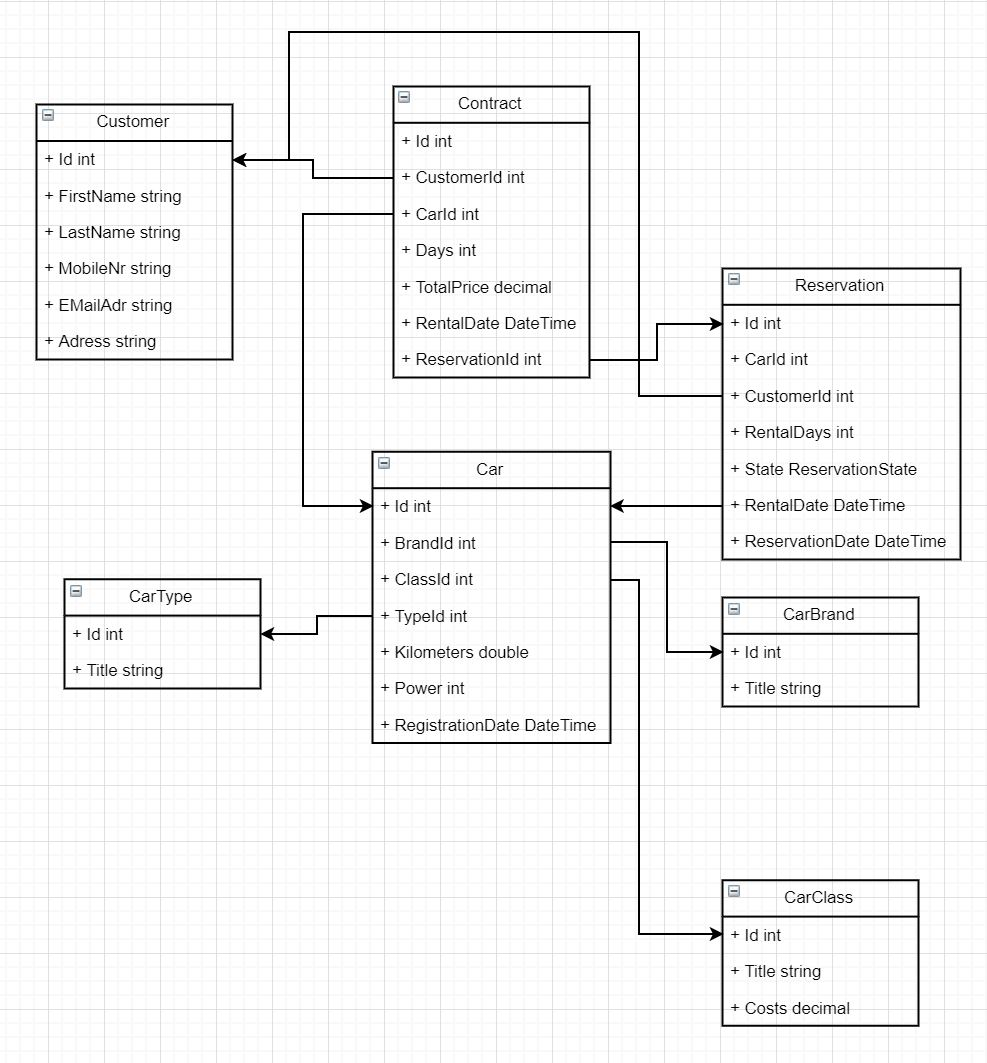
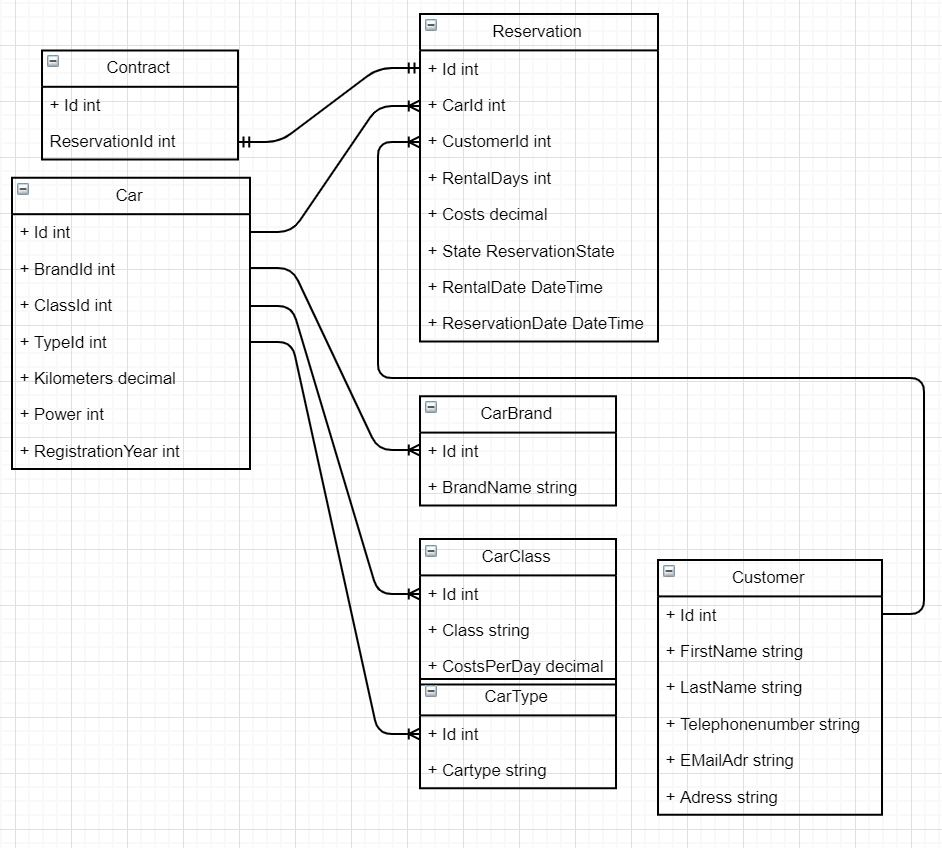
Tests und doku

diff --git a/docs/Car-Rent-Doc/site/index.html b/docs/Car-Rent-Doc/site/index.html
@@ -53,15 +53,27 @@
                 <div class="col-md-3"><div class="bs-sidebar hidden-print affix well" role="complementary">
     <ul class="nav bs-sidenav">
         <li class="main active"><a href="#car-rent-api-documentation">Car Rent Api Documentation</a></li>
+        <li class="main "><a href="#aufgabenstellung">Aufgabenstellung</a></li>
+            <li><a href="#zielsetzung">Zielsetzung</a></li>
         <li class="main "><a href="#context-diagram">Context Diagram</a></li>
         <li class="main "><a href="#container-diagram">Container Diagram</a></li>
         <li class="main "><a href="#component-diagram">Component Diagram</a></li>
+        <li class="main "><a href="#domain-diagram">Domain Diagram</a></li>
+        <li class="main "><a href="#use-cases">Use Cases</a></li>
+        <li class="main "><a href="#restapi">RestApi</a></li>
+            <li><a href="#daten-ubergabewerte">Daten übergabewerte</a></li>
+            <li><a href="#datenubergabe">Datenübergabe</a></li>
+            <li><a href="#datenbank">Datenbank</a></li>
+        <li class="main "><a href="#continuous-integration">Continuous Integration</a></li>
     </ul>
 </div></div>
                 <div class="col-md-9" role="main">
 
 <h1 id="car-rent-api-documentation">Car Rent Api Documentation</h1>
 <p><img alt="BigPicture" src="images/BigPicture.JPG" /></p>
+<h1 id="aufgabenstellung">Aufgabenstellung</h1>
+<h2 id="zielsetzung">Zielsetzung</h2>
+<p>Es soll ein Autovermietungssystem "Car Rent" erstellt werden. Das System soll aus einem Serverteil, welcher über eine RestApi erreicht werden kann, und aus einem optionalen Webclient bestehen.</p>
 <h1 id="context-diagram">Context Diagram</h1>
 <p><img alt="ContextDiagram" src="images/ContextDiagram.JPG" /></p>
 <p>Der Kunde kann bei einer Reservation ein Auto aus einer bestimmten Klasse wählen. Bei der Reservation muss er die Mietdauer und das Anfangsdatum angeben. 
@@ -71,7 +83,27 @@ Der Sachbearbeiter kann den Fuhrpark verwalten. Zudem kann er die Kunden im Syst
 <p>Die Webaplikation macht API calls zur RestApi über welche Datenbankoperationen ausgeführt werden. Je nach Aufruf werden Daten geschrieben oder gelesen.</p>
 <h1 id="component-diagram">Component Diagram</h1>
 <p><img alt="ContextDiagram" src="images/ComponentDiagram.JPG" /></p>
-<p>Der Kunde kann ein Auto auswählen und eine Reservation tätigen. Bei Abholung des Wagens muss der Kunde einen Vertrag unterschreiben. Die Reservation beinhaltet das ausgewählte Fahrzeug, das Reservationsdatum, die Mietdauer, die Gesamtkosten und der Mietzeitpunkt. </p></div>
+<p>Der Kunde kann ein Auto auswählen und eine Reservation tätigen. Bei Abholung des Wagens muss der Kunde einen Vertrag unterschreiben. Die Reservation beinhaltet das ausgewählte Fahrzeug, das Reservationsdatum, die Mietdauer, die Gesamtkosten und der Mietzeitpunkt und den Reservationsstatus. Bei der Vertragserstellung ändert der Reservationsstatus zu Contracted. </p>
+<h1 id="domain-diagram">Domain Diagram</h1>
+<p><img alt="DomainDiagram" src="images/DomainModel.JPG" /></p>
+<h1 id="use-cases">Use Cases</h1>
+<p>UC1: Der Sachbearbeiter kann Kunden erfassen, löschen bearbeiten und mittels Kundennummer oder Name suchen.</p>
+<p>UC2: Der Sachbearbeiter kann Autos verwalten und suchen.</p>
+<p>UC3: Jedes Auto besitzt eine Angabe bezüglich Klasse, Typ und Marke. Jedes Auto kann zudem eindeutig Identifiziert werden.</p>
+<p>UC4: Die Klasse bestimmt den Tagespreis.</p>
+<p>UC5: Bei der Reservation kann ein Auto aus einer bestimmten Klasse gewählt werden. Durch die Angabe der Reservationstage wird der Gesamtpreis berechnet. Der Reservationsstatus wird für den ausgewählten Reservationszeitraum auf reserviert gesetzt.</p>
+<p>UC6: Beim erstellen des Mietvertrags, wird der Reservationsstatus auf Contracted gewechselt.</p>
+<h1 id="restapi">RestApi</h1>
+<h2 id="daten-ubergabewerte">Daten übergabewerte</h2>
+<p>Die Daten werden gemäss dem Domaindiagramm als json-Datei von der RestApi zurückgegeben. Bei Fremdschlüssel werden die Id's der als fremdschlüsselübergebenen Tabelle zurückgegeben.</p>
+<h3 id="ausnahme">Ausnahme</h3>
+<p>Die Rückgabe des Contracts unterscheidet sich von den anderen. Hier werden die gejointen Werte zurück gegeben und nicht nur die Fremdschlüssel Id.</p>
+<h2 id="datenubergabe">Datenübergabe</h2>
+<p>Die Daten werden von der RestApi in Form von json-Dateien übernommen. Um die Tabellen zu verknüpfen müssen den entsprechenden Fremdschlüsselfelder die jeweiligen Id's der Daten aus der jeweiligen Tabelle übergeben werden.</p>
+<h2 id="datenbank">Datenbank</h2>
+<p>Die Datenbank wurde in Form eines Entity Frameworks umgesetzt. Das Entity Framework läuft als InMemoryDatenbank, wodurch es die Daten nur während die RestApi läuft hält. Dadurch werden beim Start der Api mehrere Beispieldaten übergeben.</p>
+<h1 id="continuous-integration">Continuous Integration</h1>
+<p>Die Continuous Integration wurde mittels einer Azure Pipeline umgesetzt. Diese Pipeline startet bei jedem Push in den Master-Branch von Git einen automatischen Build und führt die Tests durch.</p></div>
         </div>
 
         <footer class="col-md-12">
@@ -154,5 +186,5 @@ Der Sachbearbeiter kann den Fuhrpark verwalten. Zudem kann er die Kunden im Syst
 
 <!--
 MkDocs version : 1.0.4
-Build Date UTC : 2020-02-03 16:40:27
+Build Date UTC : 2020-02-18 16:22:52
 -->

diff --git a/CarRentApi/CarRentApi.test/CarClassTest.cs b/CarRentApi/CarRentApi.test/CarClassTest.cs
@@ -25,14 +25,15 @@ namespace CarRentApi.test
             ExampleData.ExampleData.InitTestData(carrent);
             var carclasscontroller = new CarClassesController(carrent);
             var carclasslist = carclasscontroller.GetCarClasses();
+            var carlist2 = carrent.CarClasses.ToList();
 
-            Assert.IsTrue(carclasslist.Count == 3);
+            Assert.IsTrue(carclasslist.Count == carlist2.Count);
         }
 
         [Test]
         public void Post_CarClass_IsTrue()
         {
-            var carclass = new CarClass(){Class = "Ichwerdegeloescht",CostsPerDay = 1000m};
+            var carclass = new CarClass() { Class = "Ichwerdegeloescht", CostsPerDay = 1000m };
             DbContextOptionsBuilder<CarRentDBContext> builder = new DbContextOptionsBuilder<CarRentDBContext>();
             builder.UseInMemoryDatabase("CarRent");
             DbContextOptions<CarRentDBContext> options = builder.Options;
@@ -46,7 +47,7 @@ namespace CarRentApi.test
                 var carclasslist = carclasscontroller.GetCarClasses();
                 foreach (var cclass in carclasslist)
                 {
-                    if(!cclass.Class.Equals(carclass.Class))
+                    if (!cclass.Class.Equals(carclass.Class))
                         continue;
                     index = cclass.Id;
                 }
@@ -57,16 +58,72 @@ namespace CarRentApi.test
             carclasscontroller.PostCarClass(carclass);
 
             var bOk = false;
+            var ind = 0;
             foreach (var carsclasses in carclasscontroller.GetCarClasses())
             {
                 if (carsclasses.Class.Equals(carclass.Class) && carsclasses.CostsPerDay == carclass.CostsPerDay)
                 {
                     bOk = true;
+                    ind = carsclasses.Id;
                     break;
                 }
             }
+
+            carclasscontroller.DeleteCarClass(ind);
             Assert.IsTrue(bOk);
         }
 
+        [Test]
+        public void Delete_CarClass_IsTrue()
+        {
+            var carclass = new CarClass() { Class = "Ichwerdegeloeschtzwei", CostsPerDay = 1000m };
+            DbContextOptionsBuilder<CarRentDBContext> builder = new DbContextOptionsBuilder<CarRentDBContext>();
+            builder.UseInMemoryDatabase("CarRent");
+            DbContextOptions<CarRentDBContext> options = builder.Options;
+            CarRentDBContext carrent = new CarRentDBContext(options);
+            ExampleData.ExampleData.InitTestData(carrent);
+            var carclasscontroller = new CarClassesController(carrent);
+            carclasscontroller.PostCarClass(carclass);
+            bool isAdded = false;
+            int id = 0;
+            foreach (var cclass in carclasscontroller.GetCarClasses())
+            {
+                if (cclass.Class.Equals(carclass.Class) && cclass.CostsPerDay == carclass.CostsPerDay)
+                {
+                    id = cclass.Id;
+                    isAdded = true;
+                    break;
+                }
+            }
+
+            carclasscontroller.DeleteCarClass(id);
+            Assert.IsTrue(isAdded && carclasscontroller.GetCarClass(id) == null);
+        }
+
+        [Test]
+        public void Put_CarClass_IsTrue()
+        {
+            var carclass = new CarClass() { Class = "ichwerde", CostsPerDay = 1000m };
+            DbContextOptionsBuilder<CarRentDBContext> builder = new DbContextOptionsBuilder<CarRentDBContext>();
+            builder.UseInMemoryDatabase("CarRent");
+            DbContextOptions<CarRentDBContext> options = builder.Options;
+            CarRentDBContext carrent = new CarRentDBContext(options);
+            ExampleData.ExampleData.InitTestData(carrent);
+            var carclasscontroller = new CarClassesController(carrent);
+            carclasscontroller.PostCarClass(carclass);
+            int id = 0;
+            foreach (var cclass in carclasscontroller.GetCarClasses())
+            {
+                if (cclass.Class.Equals("ichwerde"))
+                {
+                    id = cclass.Id;
+                    break;
+                }
+            }
+            var carclass2 = carclasscontroller.GetCarClass(id);
+            carclasscontroller.PutCarClass(id, carclass2);
+            var carclass3 = carclasscontroller.GetCarClass(id);
+            Assert.IsTrue(carclass3.Class.Equals(carclass2.Class));
+        }
     }
 }

diff --git a/docs/Car-Rent-Doc/docs/index.md b/docs/Car-Rent-Doc/docs/index.md
@@ -2,6 +2,11 @@
 
 ![BigPicture](./images/BigPicture.JPG)
 
+# Aufgabenstellung
+## Zielsetzung
+
+Es soll ein Autovermietungssystem "Car Rent" erstellt werden. Das System soll aus einem Serverteil, welcher über eine RestApi erreicht werden kann, und aus einem optionalen Webclient bestehen.
+
 # Context Diagram
 
 ![ContextDiagram](./images/ContextDiagram.JPG)
@@ -23,7 +28,7 @@ Der Kunde kann ein Auto auswählen und eine Reservation tätigen. Bei Abholung d
 # Domain Diagram
 ![DomainDiagram](./images/DomainModel.JPG)
 
-#Use Cases
+# Use Cases
 
 UC1: Der Sachbearbeiter kann Kunden erfassen, löschen bearbeiten und mittels Kundennummer oder Name suchen.
 
@@ -36,3 +41,21 @@ UC4: Die Klasse bestimmt den Tagespreis.
 UC5: Bei der Reservation kann ein Auto aus einer bestimmten Klasse gewählt werden. Durch die Angabe der Reservationstage wird der Gesamtpreis berechnet. Der Reservationsstatus wird für den ausgewählten Reservationszeitraum auf reserviert gesetzt.
 
 UC6: Beim erstellen des Mietvertrags, wird der Reservationsstatus auf Contracted gewechselt.
+
+# RestApi
+
+## Daten übergabewerte
+Die Daten werden gemäss dem Domaindiagramm als json-Datei von der RestApi zurückgegeben. Bei Fremdschlüssel werden die Id's der als fremdschlüsselübergebenen Tabelle zurückgegeben.
+
+### Ausnahme
+Die Rückgabe des Contracts unterscheidet sich von den anderen. Hier werden die gejointen Werte zurück gegeben und nicht nur die Fremdschlüssel Id.
+
+## Datenübergabe
+Die Daten werden von der RestApi in Form von json-Dateien übernommen. Um die Tabellen zu verknüpfen müssen den entsprechenden Fremdschlüsselfelder die jeweiligen Id's der Daten aus der jeweiligen Tabelle übergeben werden.
+
+## Datenbank
+Die Datenbank wurde in Form eines Entity Frameworks umgesetzt. Das Entity Framework läuft als InMemoryDatenbank, wodurch es die Daten nur während die RestApi läuft hält. Dadurch werden beim Start der Api mehrere Beispieldaten übergeben.
+
+# Continuous Integration
+
+Die Continuous Integration wurde mittels einer Azure Pipeline umgesetzt. Diese Pipeline startet bei jedem Push in den Master-Branch von Git einen automatischen Build und führt die Tests durch.
